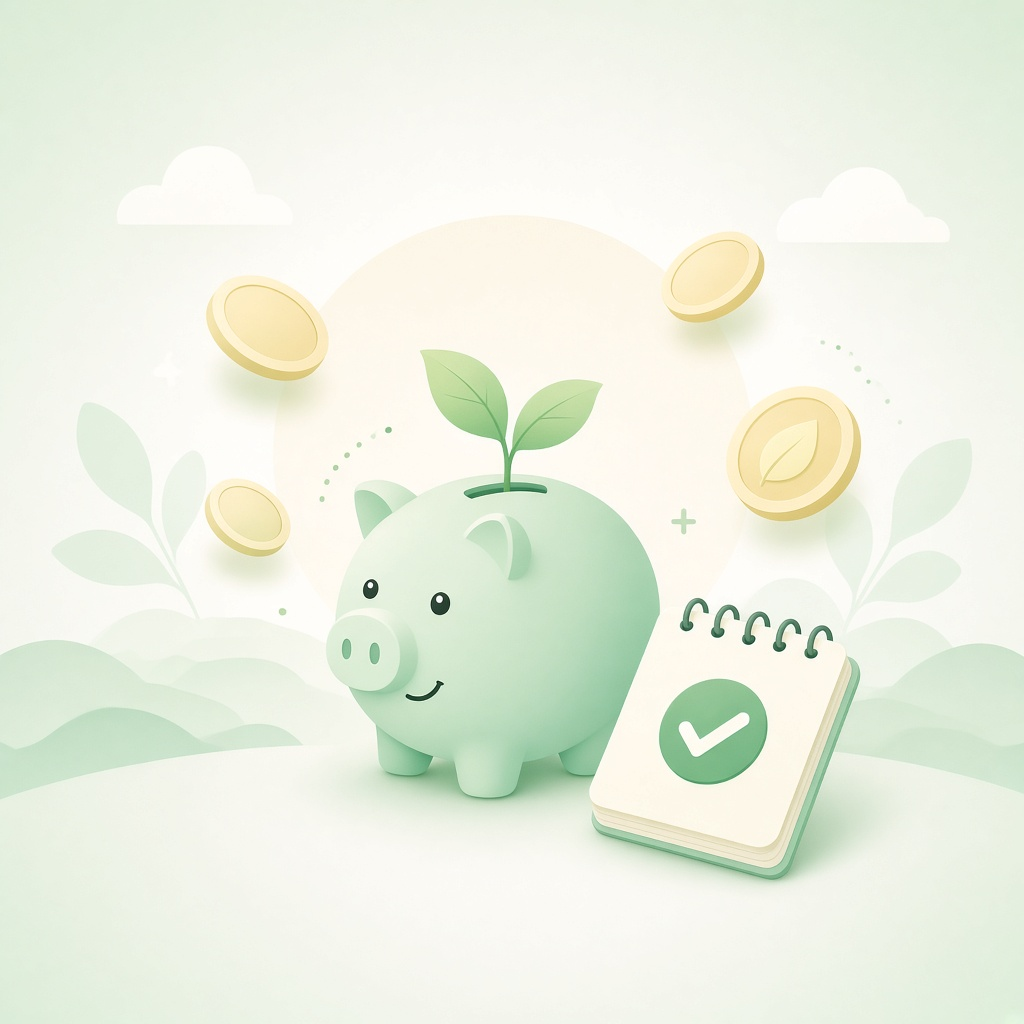
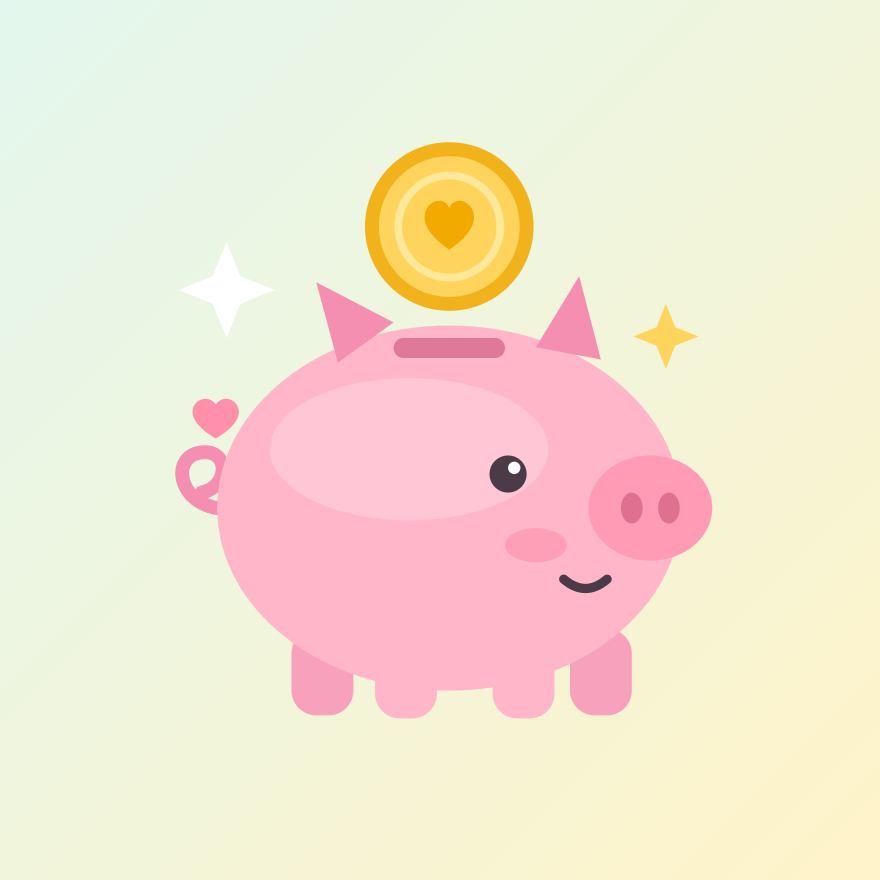
Replace landing hero with the piggy-bank image and pink glow.

diff --git a/app/page.tsx b/app/page.tsx
@@ -19,14 +19,14 @@ export default function LandingPage() {
       <div className="page-main flex min-h-full w-full flex-col items-center justify-center py-10 sm:py-12">
         <div className="flex w-full flex-1 flex-col items-center justify-center text-center">
           <div className="relative mb-6">
-            <div className="absolute inset-0 scale-110 rounded-full bg-emerald-200/40 blur-2xl" />
+            <div className="absolute inset-0 scale-110 rounded-full bg-pink-200/50 blur-2xl" />
             <Image
               src="/account-book-hero.png"
               alt="나의 AI 가계부 로고"
               width={220}
               height={220}
               priority
-              className="relative h-44 w-44 rounded-[2rem] object-cover shadow-[0_20px_50px_-24px_rgba(16,185,129,0.55)] sm:h-52 sm:w-52"
+              className="relative h-44 w-44 rounded-[2rem] object-cover shadow-[0_20px_50px_-24px_rgba(244,143,177,0.7)] sm:h-52 sm:w-52"
             />
           </div>
           <h1 className="text-4xl font-semibold tracking-tight text-slate-800 sm:text-[2.5rem]">
